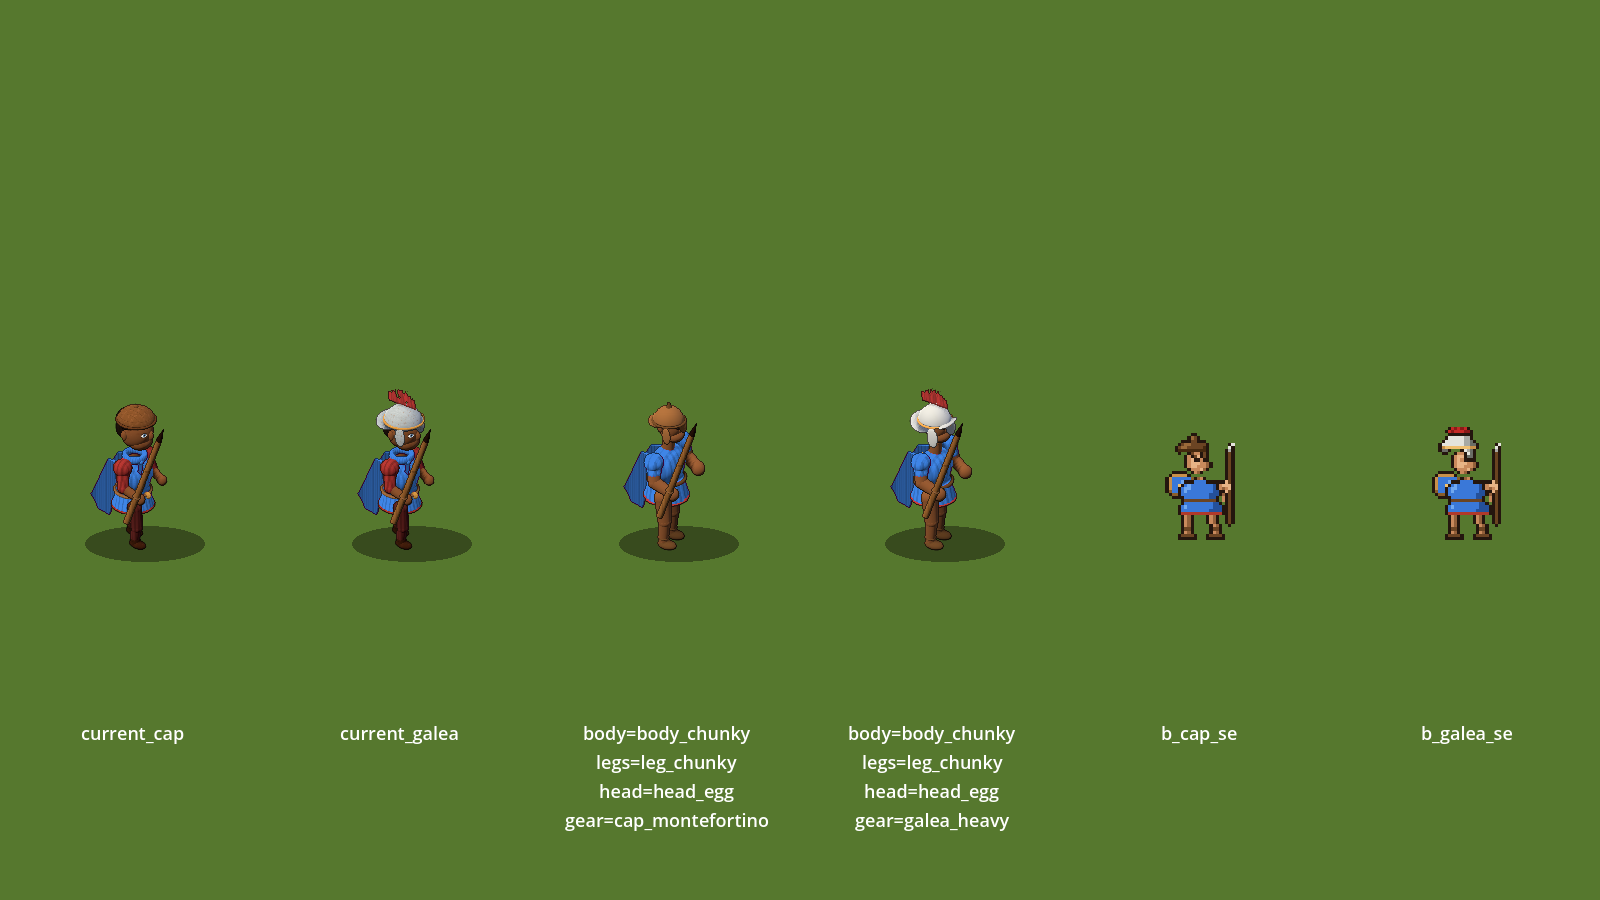
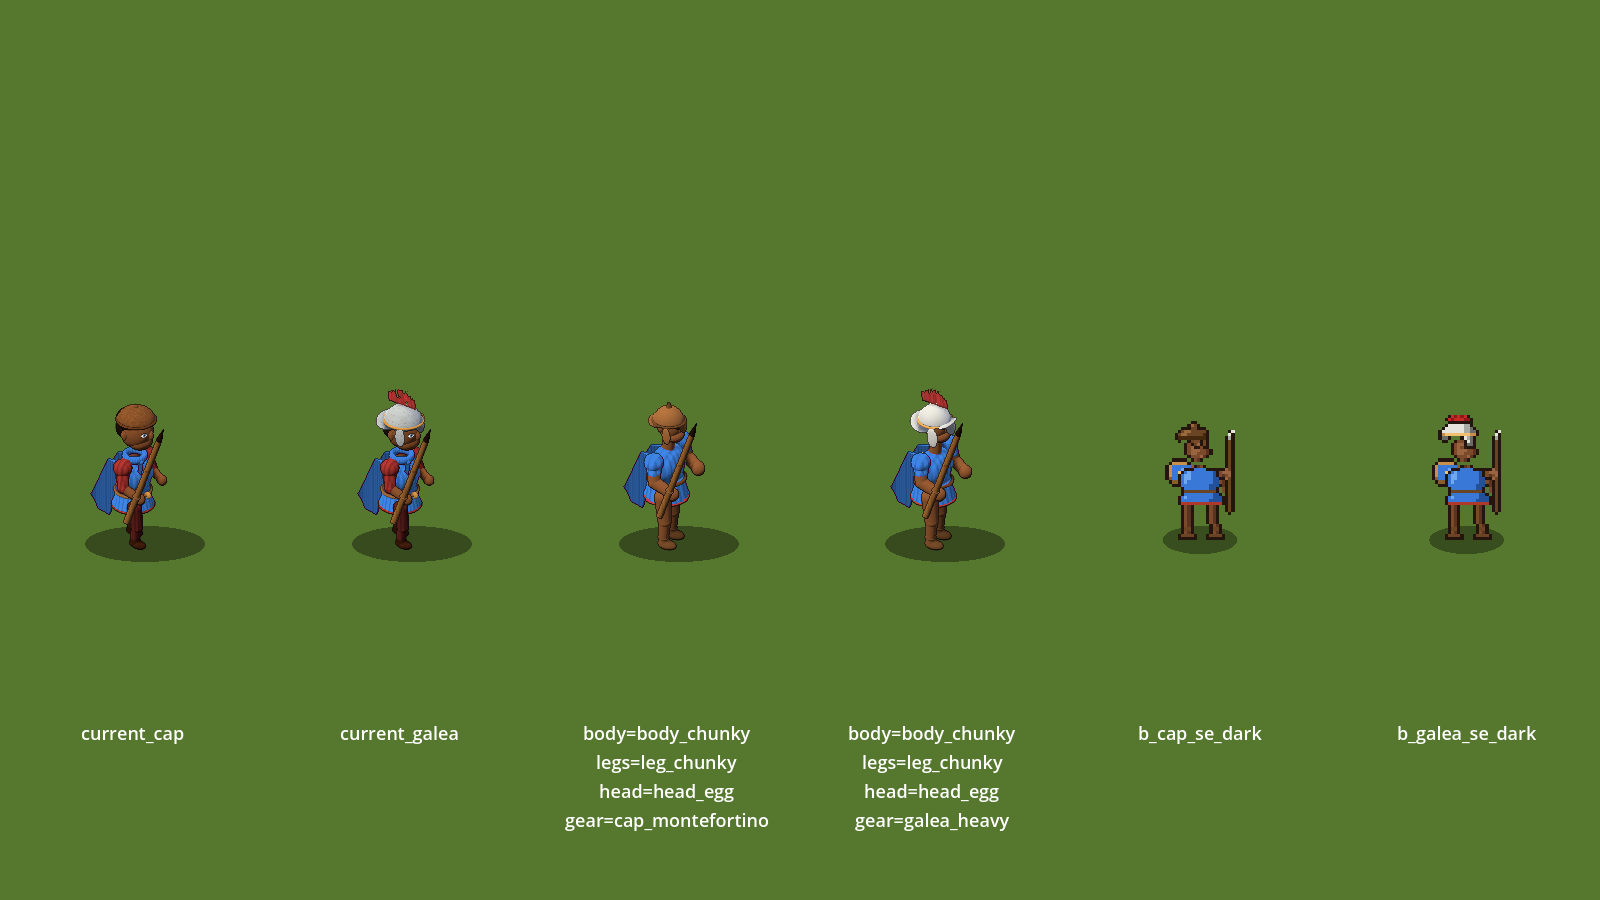
R0 second run: fair scale, shadow and skin for the pixel figures

diff --git a/tests/pixel_sprite.py b/tests/pixel_sprite.py
@@ -26,6 +26,9 @@ PAL = {
 }
 
 
+SKINS = {"light": ("e8b486", "c98a5c", "93603a"), "dark": ("9a6440", "7a4a2a", "5a3420")}
+
+
 def png(path, rows, scale=1):
     h = len(rows) * scale
     w = len(rows[0]) * scale
@@ -68,6 +71,7 @@ BODY_SE = [
     "...ooottttoooo..",
     "..otutttttttTto.",
     ".otuutttttttTTso",
+    ".otuutttttttTTso",
     ".otuttttttttTTsdo",
     ".otttttttttTTTodo",
     "..ottttttttTTo.so",
@@ -76,6 +80,9 @@ BODY_SE = [
     ".otuttttttttTTTo",
     ".otttttttttTTTTo",
     ".orrrrrrrrrrrrro",
+    "..osdo....osdo..",
+    "..osdo....osdo..",
+    "..osdo....osdo..",
     "..osdo....osdo..",
     "..osdo....osdo..",
     "..osdo....osdo..",
@@ -173,6 +180,7 @@ BODY_S = [
     "..ottuttttttTTo..",
     ".osottttttttTTsdo",
     ".osottttttttTTsdo",
+    ".osottttttttTTsdo",
     ".osottttttttTTodo",
     ".oso.oottttTo.odo",
     ".ollo.obbbbbo.olo",
@@ -180,6 +188,9 @@ BODY_S = [
     "....otutttttTTo..",
     "....otttttttTTo..",
     "....orrrrrrrrro..",
+    ".....osdo.osdo...",
+    ".....osdo.osdo...",
+    ".....osdo.osdo...",
     ".....osdo.osdo...",
     ".....osdo.osdo...",
     ".....osdo.osdo...",
@@ -236,6 +247,7 @@ BODY_N = [
     "..oTtttttttttTo..",
     ".odoTtttttttTToso",
     ".odoTtttttttTToso",
+    ".odoTtttttttTToso",
     ".odoTTtttttTTToso",
     ".odo.oTtttttTo.so",
     ".odo.obbbbbbbo.so",
@@ -243,6 +255,9 @@ BODY_N = [
     "....oTtttttttTo..",
     "....oTTtttttTTo..",
     "....orrrrrrrrro..",
+    ".....odso.odso...",
+    ".....odso.odso...",
+    ".....odso.odso...",
     ".....odso.odso...",
     ".....odso.odso...",
     ".....odso.odso...",
@@ -292,7 +307,7 @@ GALEA_N = [
 
 
 def figure(facing, gear):
-    cv = canvas(30, 44)
+    cv = canvas(30, 48)
     if facing == "se":
         stamp(cv, SHIELD_SE, 4, 20)
         stamp(cv, BODY_SE, 7, 22)
@@ -319,9 +334,12 @@ def figure(facing, gear):
 
 if __name__ == "__main__":
     os.makedirs(OUT, exist_ok=True)
-    for facing in ["s", "se", "n"]:
-        for gear in ["hair", "cap", "galea"]:
-            r = figure(facing, gear)
-            png(os.path.join(OUT, "b_%s_%s.png" % (gear, facing)), r, 1)
-            png(os.path.join(OUT, "b_%s_%s_x6.png" % (gear, facing)), r, 6)
+    for skin in ["light", "dark"]:
+        PAL["l"], PAL["s"], PAL["d"] = SKINS[skin]
+        suffix = "" if skin == "light" else "_dark"
+        for facing in ["s", "se", "n"]:
+            for gear in ["hair", "cap", "galea"]:
+                r = figure(facing, gear)
+                png(os.path.join(OUT, "b_%s_%s%s.png" % (gear, facing, suffix)), r, 1)
+                png(os.path.join(OUT, "b_%s_%s%s_x6.png" % (gear, facing, suffix)), r, 6)
     print("wrote", OUT)

diff --git a/docs/concepts/r0/README.md b/docs/concepts/r0/README.md
@@ -18,8 +18,10 @@ shape) and an age-3 galea, in three facings, close up and at game scale. Sheets:
   placed. It looks like a classic hand-drawn sprite, which sits differently next to the painterly
   baked buildings. Every new part costs a drawing per facing (8 facings = 5 drawn + 3 mirrored,
   or 8 drawn), and gear has to be drawn per head shape (human, rat, frog...).
-- **Caveats:** B's figure came out ~20% smaller than the 3D ones, has no ground shadow, and uses
-  a lighter skin; A/A+ use the dark skin of this race. Fix before judging side by side.
+- **Fairness fixes (second run):** B is now taller, stands on the same ground shadow, and uses the
+  race's dark skin (`b_*_dark.png`); the light-skin versions are kept for close-ups.
+- Facing the camera, A+ holds up better than at three-quarter: the helmets read. B stays crisp
+  in all three views.
 
 ## Not built yet
 - **C, the hybrid** (A+ bodies with pixel-drawn heads and head gear per facing).
